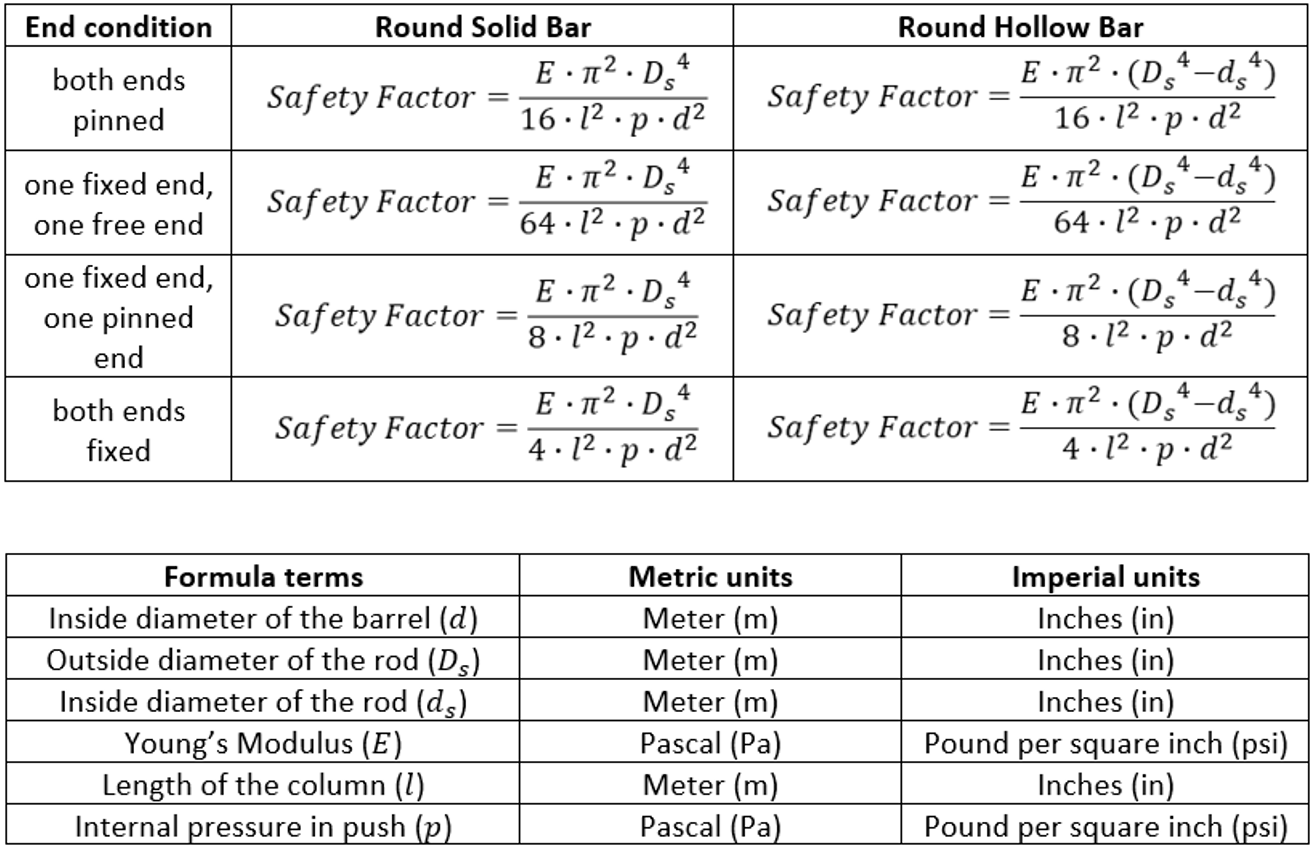
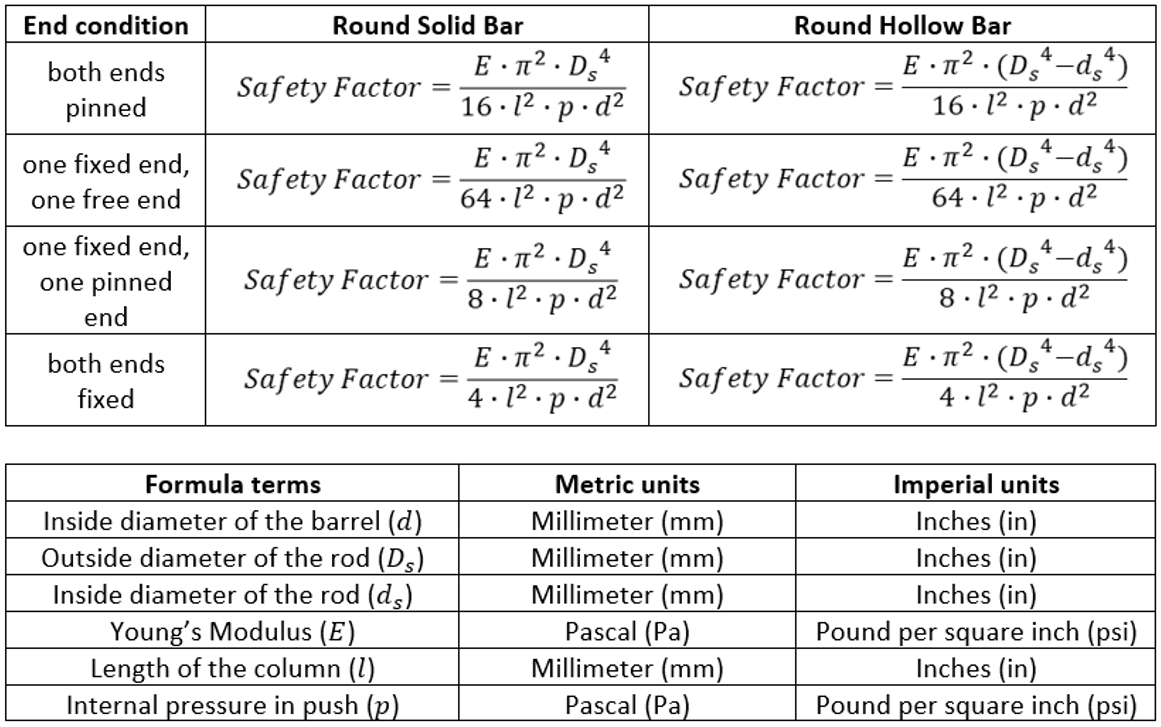
Commiting before changes on the quoteone page.

Changed region(s): [[0.0, 0.0, 1.0, 0.6052], [0.0, 0.6355, 1.0, 0.9986]]

diff --git a/public/javascripts/calculationbuckling.js b/public/javascripts/calculationbuckling.js
@@ -1,6 +1,10 @@
 //General functions - Start
 
+let isNext = false; //Used to allow the user to go to the next page without the prompt of the risk-of-losing-data alert
+
 let isThereRodID = false;
+
+let sfWp = 0, sfTp = 0; //Used to make sure the safety factor results can be accessed by other functions
 
 //Selector is used to indicate which conversion has to be performed. 1 = In to MM, 2 = MM to In.
 function elementsConversion (elementYouAre, otherElement, selector) { 
@@ -66,6 +70,20 @@ function conversion (origim, selector) {
 function emptyFields (first, second) {
   const fieldsToEmpty = [first, second];
   fieldsToEmpty.forEach((field) => field.value = '');
+}
+
+//Used to save important data in session storage
+function saveData () {
+  const E = document.getElementById('inputYoungsModulus').value || 200;
+  sessionStorage.setItem('buckling-end-condition', document.getElementById('inputEndCondition').value);
+  sessionStorage.setItem('buckling-solid-hollow', document.getElementById('js-round-hollow-yes').checked);
+  if (sessionStorage.getItem('buckling-solid-hollow') === 'true') {
+   sessionStorage.setItem('buckling-rod-id-in', document.getElementById('inputRodIDInches').value);
+   sessionStorage.setItem('buckling-rod-id-mm', document.getElementById('inputRodID').value);
+  }
+  sessionStorage.setItem('buckling-youngs-modulus', E);
+  sessionStorage.setItem('buckling-safety-factor-wp', sfWp);
+  sessionStorage.setItem('buckling-safety-factor-tp', sfTp);
 }
 
 //General functions - End
@@ -166,7 +184,7 @@ document.getElementById('js-calc-sf-buckling').addEventListener('click', () => {
     }
   }
   else {
-    rodID = Number(document.getElementById('inputRodID').value).toFixed(4);
+    rodID = Number(document.getElementById('inputRodID').value).toFixed(2);
     if (document.getElementById('inputEndCondition').value === 'endCondition1') {
       safetyFactorWP = (youngsModulus * 1000 * Math.pow(Math.PI, 2) * (Math.pow(rodOD, 4) - Math.pow(rodID, 4)))/(16 * Math.pow(columnLength, 2) * pushPressWP * Math.pow(barrelID, 2)); //1000 is necessary as E should be in GPa. Also Math.PI/4 is added to work with proper values.
       safetyFactorTP = (youngsModulus * 1000 * Math.pow(Math.PI, 2) * (Math.pow(rodOD, 4) - Math.pow(rodID, 4)))/(16 * Math.pow(columnLength, 2) * pushPressTP * Math.pow(barrelID, 2));
@@ -209,8 +227,8 @@ document.getElementById('js-calc-sf-buckling').addEventListener('click', () => {
     }
   }
 
-  safetyFactorWP = safetyFactorWP.toFixed(1);
-  safetyFactorTP = safetyFactorTP.toFixed(1);
+  sfWp = safetyFactorWP = safetyFactorWP.toFixed(1);
+  sfTp = safetyFactorTP = safetyFactorTP.toFixed(1);
 
   let actualSFWP = ''; //Used for signaling if the safety factor is according to standard or not.
   let actualSFTP = ''; //Used for signaling if the safety factor is according to standard or not.
@@ -252,7 +270,7 @@ document.getElementById('js-calc-sf-buckling').addEventListener('click', () => {
     rodIDHTML = 'N/A';
   }
   else {
-    rodIDHTML = rodID/1000;
+    rodIDHTML = rodID;
   }
 
   let maxRodIDHTML = '';
@@ -261,7 +279,12 @@ document.getElementById('js-calc-sf-buckling').addEventListener('click', () => {
     maxRodIDHTML = 'N/A';
   }
   else {
-    maxRodIDHTML = maxRodID / 1000;
+    if (isNaN(maxRodID)) {
+      maxRodIDHTML = 'Cannot be hollow';
+    }
+    else {
+      maxRodIDHTML = Number(maxRodID).toFixed(2);
+    }
   }
 
   document.getElementById('js-buckling-sf-result').innerHTML =
@@ -297,23 +320,23 @@ document.getElementById('js-calc-sf-buckling').addEventListener('click', () => {
         </tr>
         <tr>
           <th scope="col" class="text-center" colspan="2" valign="middle">End-condition</th>
-          <th scope="col" class="text-center" colspan="3" valign="middle">Young's Modulus (Pa)</th>
-          <th scope="col" class="text-center" colspan="1" valign="middle">Rod OD (m)</th>
-          <th scope="col" class="text-center" colspan="1" valign="middle">Rod ID (m)</th>
-          <th scope="col" class="text-center" colspan="1" valign="middle">Column length (m)</th>
-          <th scope="col" class="text-center" colspan="3" valign="middle">Push pressure (Pa)</th>
-          <th scope="col" class="text-center" colspan="1" valign="middle">Barrel ID (m)</th>
+          <th scope="col" class="text-center" colspan="3" valign="middle">Young's Modulus (GPa)</th>
+          <th scope="col" class="text-center" colspan="1" valign="middle">Rod OD (mm)</th>
+          <th scope="col" class="text-center" colspan="1" valign="middle">Rod ID (mm)</th>
+          <th scope="col" class="text-center" colspan="1" valign="middle">Column length (mm)</th>
+          <th scope="col" class="text-center" colspan="3" valign="middle">Push pressure (MPa)</th>
+          <th scope="col" class="text-center" colspan="1" valign="middle">Barrel ID (mm)</th>
         </tr>
       </thead>
       <tbody>
         <tr>
           <td scope="col" class="text-center" colspan="2">${endCondition}</td>
-          <td scope="col" class="text-center" colspan="3">${youngsModulus.toFixed(0)} &#183 10<sup>9</sup></td>
-          <td scope="col" class="text-center" colspan="1">${(rodOD / 1000).toFixed(4)}</td>
+          <td scope="col" class="text-center" colspan="3">${youngsModulus.toFixed(0)}</td>
+          <td scope="col" class="text-center" colspan="1">${Number(rodOD).toFixed(2)}</td>
           <td scope="col" class="text-center" colspan="1">${rodIDHTML}</td>
-          <td scope="col" class="text-center" colspan="1">${(columnLength / 1000).toFixed(4)}</td>
-          <td scope="col" class="text-center" colspan="3">${Number(pushPressWP).toFixed(2)} &#183 10<sup>6</sup></td>
-          <td scope="col" class="text-center" colspan="1">${(barrelID / 1000).toFixed(4)}</td>
+          <td scope="col" class="text-center" colspan="1">${Number(columnLength).toFixed(2)}</td>
+          <td scope="col" class="text-center" colspan="3">${Number(pushPressWP).toFixed(2)}</td>
+          <td scope="col" class="text-center" colspan="1">${Number(barrelID).toFixed(2)}</td>
         </tr>
       </tbody>
     </table>
@@ -324,22 +347,22 @@ document.getElementById('js-calc-sf-buckling').addEventListener('click', () => {
         <th scope="col" class="text-center" colspan="12" valign="middle">Required values to get the minimum safety factor of 3:1 at working pressure</th>
       </tr>
       <tr>
-        <th scope="col" class="text-center" colspan="2" valign="middle">Max. push pressure (Pa)</th>
-        <th scope="col" class="text-center" colspan="2" valign="middle">Min. rod OD (m)</th>
-        <th scope="col" class="text-center" colspan="2" valign="middle">Max. rod ID (m)</th>
-        <th scope="col" class="text-center" colspan="2" valign="middle">Max. column length (m)</th>
-        <th scope="col" class="text-center" colspan="2" valign="middle">Max. barrel ID (m)</th>
-        <th scope="col" class="text-center" colspan="2" valign="middle">Min. Young's Modulus (Pa)</th>
+        <th scope="col" class="text-center" colspan="2" valign="middle">Max. push pressure (MPa)</th>
+        <th scope="col" class="text-center" colspan="2" valign="middle">Min. rod OD (mm)</th>
+        <th scope="col" class="text-center" colspan="2" valign="middle">Max. rod ID (mm)</th>
+        <th scope="col" class="text-center" colspan="2" valign="middle">Max. column length (mm)</th>
+        <th scope="col" class="text-center" colspan="2" valign="middle">Max. barrel ID (mm)</th>
+        <th scope="col" class="text-center" colspan="2" valign="middle">Min. Young's Modulus (GPa)</th>
       </tr>
     </thead>
     <tbody>
       <tr>
-        <td scope="col" class="text-center" colspan="2">${Number(maxWP).toFixed(2)} &#183 10<sup>6</sup></td>
-        <td scope="col" class="text-center" colspan="2">${(minRodOD / 1000).toFixed(4)}</td>
+        <td scope="col" class="text-center" colspan="2">${Number(maxWP).toFixed(2)}</td>
+        <td scope="col" class="text-center" colspan="2">${Number(minRodOD).toFixed(2)}</td>
         <td scope="col" class="text-center" colspan="2">${maxRodIDHTML}</td>
-        <td scope="col" class="text-center" colspan="2">${(maxColumnLength / 1000).toFixed(4)}</td>
-        <td scope="col" class="text-center" colspan="2">${Number(maxBarrelID / 1000).toFixed(4)}</td>
-        <td scope="col" class="text-center" colspan="2">${Number(minYoungsModulus).toFixed(2)} &#183 10<sup>9</sup></td>
+        <td scope="col" class="text-center" colspan="2">${Number(maxColumnLength).toFixed(2)}</td>
+        <td scope="col" class="text-center" colspan="2">${Number(maxBarrelID).toFixed(2)}</td>
+        <td scope="col" class="text-center" colspan="2">${Number(minYoungsModulus).toFixed(2)}</td>
       </tr>
     </tbody>
   </table>`
@@ -356,7 +379,14 @@ document.getElementById('inputYoungsModulus').addEventListener('keydown', (e) =>
 //When next is clicked, all the date need to be saved and next page loaded
 document.getElementById('js-btn-second-next').addEventListener('click', () => {
   isNext = true;
-  location.assign('http://localhost:3000/calculationhoop');
+  document.getElementById('js-calc-sf-buckling').click();
+  if (sfWp < 3 || sfTp < 2) {
+    alert("Safety factors below Hydroil's standard. Please change design to achive safety factors.");
+  }
+  else {
+    saveData();
+    location.assign('http://localhost:3000/calculationhoop');
+  }
 })
 
 //When previous is clicked, data has to be preparad to be reloaded in the calculationinitial page
@@ -390,6 +420,28 @@ function conversionListener() {
   });
 }
 
+
+//Page loading behaviour
+window.addEventListener('load', () => {
+  if (sessionStorage.getItem('prev-hoop-buckling') === 'true') {
+    document.getElementById('inputEndCondition').value = sessionStorage.getItem('buckling-end-condition');
+    document.getElementById('inputYoungsModulus').value = sessionStorage.getItem('buckling-youngs-modulus');
+    if (sessionStorage.getItem('buckling-solid-hollow') === 'true') {
+      document.getElementById('js-round-hollow-yes').click();
+      document.getElementById('inputRodIDInches').value = sessionStorage.getItem('buckling-rod-id-in');
+      document.getElementById('inputRodID').value = sessionStorage.getItem('buckling-rod-id-mm');
+    }
+    document.getElementById('js-calc-sf-buckling').click();
+    sessionStorage.setItem('prev-hoop-buckling', false);
+  }
+})
+
+
+window.onbeforeunload = () => {
+  if (!isNext) {
+    return "Are you sure you want to reload or leave the page? Data could be lost.";
+  }  
+}
 //Event listeners setction - End
 //--------------------------------------------------------------------------------------------------------------------------
 

diff --git a/public/javascripts/calculationhoop.js b/public/javascripts/calculationhoop.js
@@ -368,21 +368,81 @@ function conversionListener() {
   document.querySelectorAll(".js-psi").forEach((e, index) => {
     let mpaElement = document.querySelectorAll(".js-mpa")[index];
     e.addEventListener('change', () => {
-        elementsConversion(e, mpaElement, 3);
+      elementsConversion(e, mpaElement, 3);
     });
-    e.addEventListener('keyup', () => {
-        elementsConversion(e, mpaElement, 3);
+    e.addEventListener('keyup', (element) => {
+      elementsConversion(e, mpaElement, 3);
+      if (element.key === 'Enter') {
+        if ((index + 1) < document.querySelectorAll('.js-psi').length) {
+          document.querySelectorAll(".js-psi")[index + 1].focus();
+        }
+        else {
+          document.getElementById('js-search-mech-properties').click();
+        }
+      }
     });
+    e.addEventListener('keydown', (element) => {
+      if (element.key === 'Tab') {
+        element.preventDefault();
+        if ((index + 1) < document.querySelectorAll('.js-psi').length) {
+          document.querySelectorAll(".js-psi")[index + 1].focus();
+        }
+        else {
+          document.getElementById('js-search-mech-properties').focus();
+        }
+      }
+    })
   });
 
   //General - It changes values from mpa to psi and bar
   document.querySelectorAll(".js-mpa").forEach((e, index) => {
     let psiElement = document.querySelectorAll(".js-psi")[index];
     e.addEventListener('change', () => {
-        elementsConversion(e, psiElement, 5);
+      elementsConversion(e, psiElement, 5);
     });
+    e.addEventListener('keyup', (element) => {
+      elementsConversion(e, psiElement, 5);
+      if (element.key === 'Enter') {
+        if ((index + 1) < document.querySelectorAll('.js-mpa').length) {
+          document.querySelectorAll(".js-mpa")[index + 1].focus();
+        }
+        else {
+          document.getElementById('js-search-mech-properties').click();
+        }
+      }
+    });
+    e.addEventListener('keydown', (element) => {
+      if (element.key === 'Tab') {
+        element.preventDefault();
+        if ((index + 1) < document.querySelectorAll('.js-mpa').length) {
+          document.querySelectorAll(".js-mpa")[index + 1].focus();
+        }
+        else {
+          document.getElementById('js-search-mech-properties').focus();
+        }
+      }
+    })
+  });
+  
+  //General - Changing values from inches to millimeters
+  document.querySelectorAll(".js-in-to-mm").forEach((e, index) => {
+    let other = document.querySelectorAll(".js-mm-to-in")[index];
     e.addEventListener('keyup', () => {
-        elementsConversion(e, psiElement, 5);
+      elementsConversion(e, other, 1);
+    });
+    e.addEventListener('change', () => {
+      elementsConversion(e, other, 1);
+    });
+  });
+
+  //General - Changing values from millimeters to inches
+  document.querySelectorAll(".js-mm-to-in").forEach((e, index) => {
+    let other = document.querySelectorAll(".js-in-to-mm")[index];
+    e.addEventListener('keyup', () => {
+      elementsConversion(e, other, 2);
+    });
+    e.addEventListener('change', () => {
+      elementsConversion(e, other, 2);
     });
   });
 }
@@ -434,6 +494,12 @@ document.getElementById('js-form-barrel-od').addEventListener('keydown', (e) => 
     e.preventDefault();
     document.getElementById('js-calc-sf-hoop').click();
   }
+})
+
+//When previous is clicked, data has to be preparad to be reloaded in the calculationinitial page
+document.getElementById('js-third-previous').addEventListener('click', () => {
+  sessionStorage.setItem('prev-hoop-buckling', true);
+  location.assign('http://localhost:3000/calculationbuckling');
 })
 
 //When next is clicked, all the date need to be saved and next page loaded
